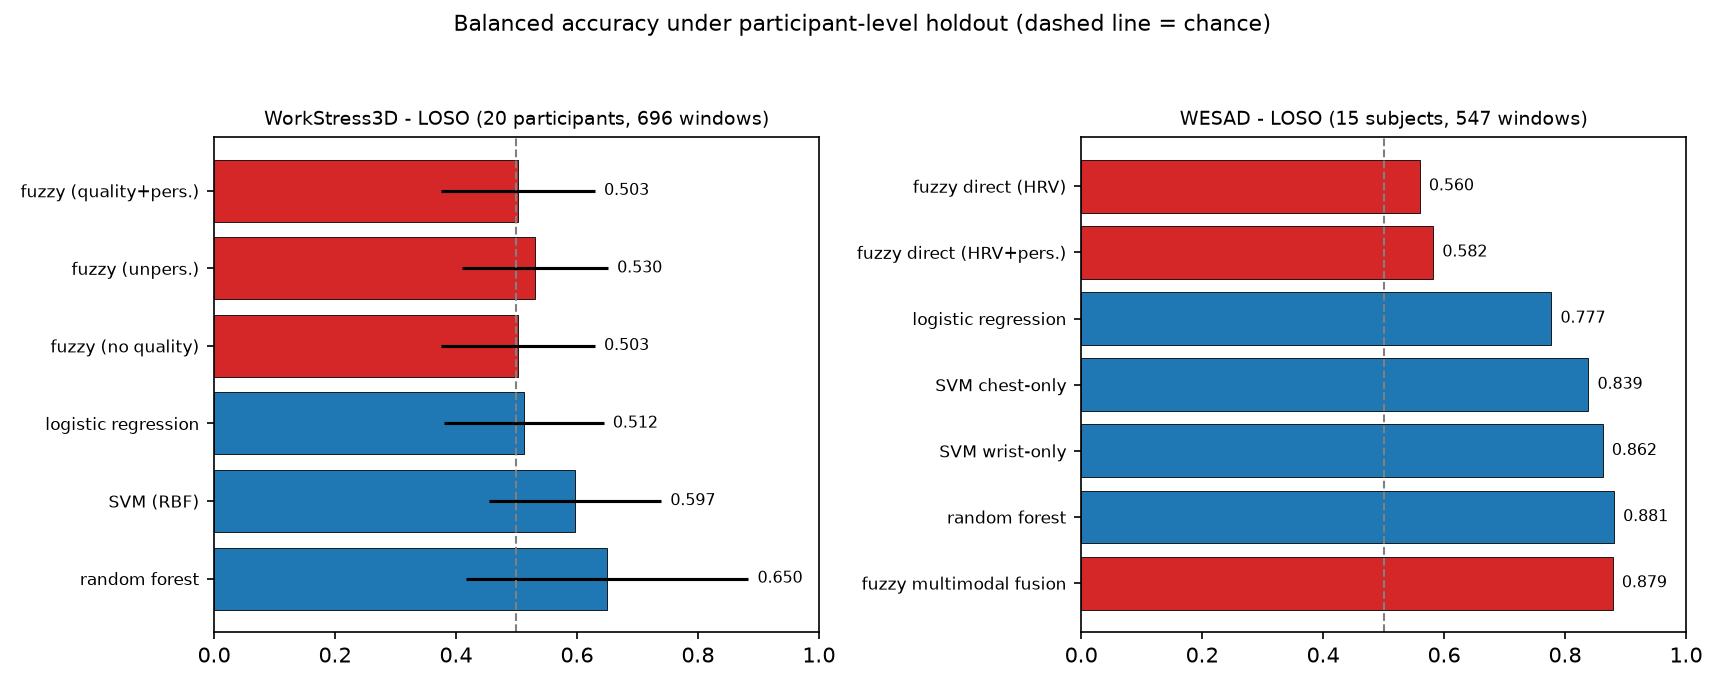
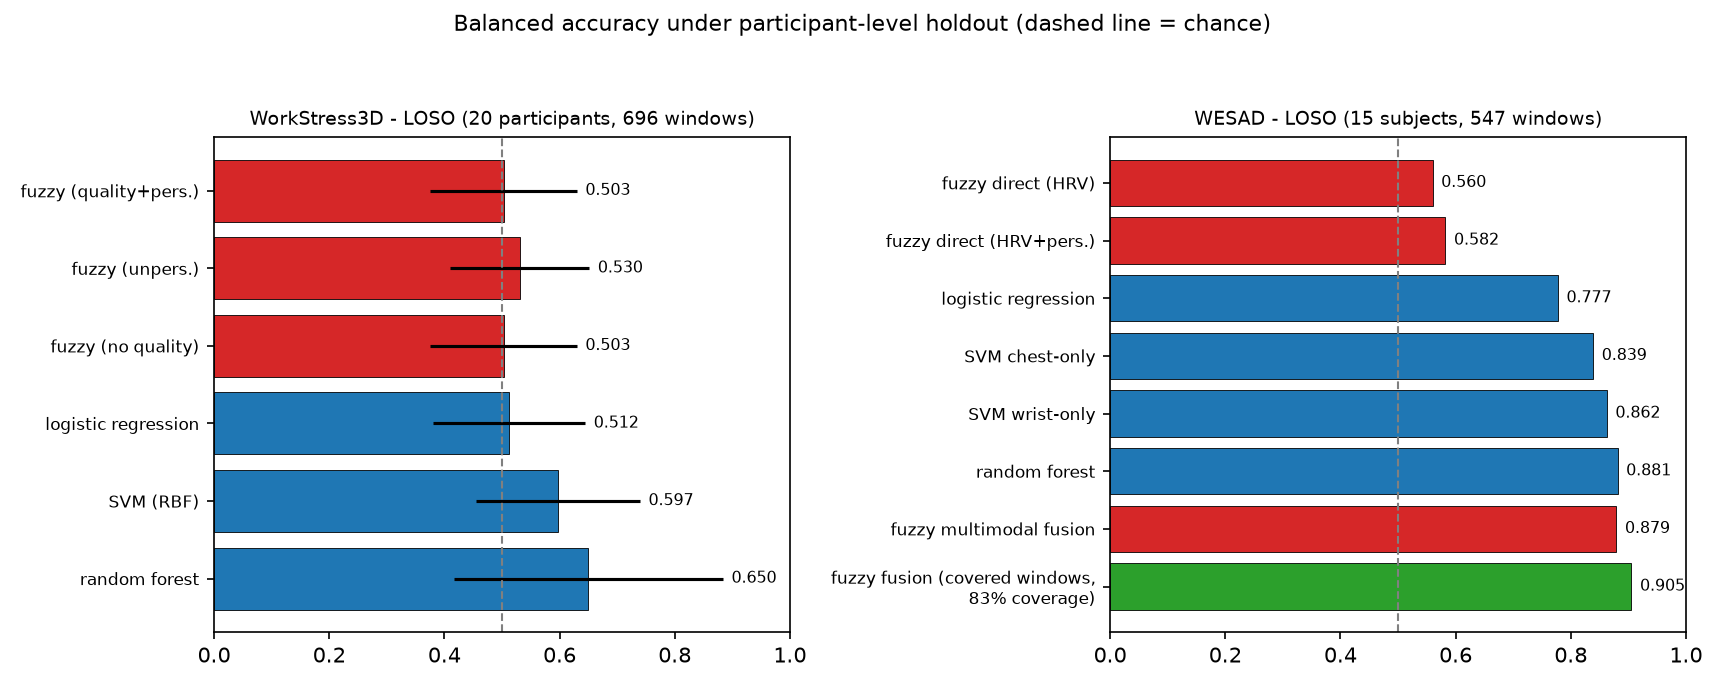
Update WESAD benchmark figure and tables: include covered-windows fusion result (0.905 BA, 0.941 accuracy at 83% coverage)

diff --git a/paper/make_figures.py b/paper/make_figures.py
@@ -244,6 +244,12 @@ def fig_benchmarks():
         vals.append(ov["balanced_accuracy"])
         errs.append(0)
         cols.append(C_FUZZY if m.startswith("fuzzy") else C_BASE)
+    covm = we["models"]["fuzzy_multimodal_fusion"].get("covered_only")
+    if covm:
+        names.append("fuzzy fusion (covered windows,\n83% coverage)")
+        vals.append(covm["balanced_accuracy"])
+        errs.append(0)
+        cols.append(C_OK)
     _bar_panel(axes[1], names, vals, None, cols,
                "WESAD - LOSO (15 subjects, 547 windows)")
 

diff --git a/README.md b/README.md
@@ -213,7 +213,7 @@ Binary task (stress vs non-stress), 547 windows, balanced accuracy:
 | SVM wrist-only / chest-only | 0.862 / 0.839 | 0.824 / 0.745 |
 | random forest | 0.881 | 0.848 |
 | **fuzzy multimodal fusion (Mamdani over calibrated wrist+chest scores)** | **0.879** | 0.818 |
-| fuzzy fusion, covered windows only (83% coverage) | **0.905** | 0.836 |
+| fuzzy fusion, covered windows only (83% coverage) | **0.905** (accuracy 0.941) | 0.836 |
 
 Reading: the interpretable fusion layer matches the best black-box baseline
 (0.879 vs 0.881) while adding abstention (conflict/quality rules flag 17% of

diff --git a/paper/paper.md b/paper/paper.md
@@ -274,7 +274,7 @@ participant identity, not stress.
 | SVM chest-only / wrist-only | 0.839 / 0.862 | 0.745 / 0.824 |
 | random forest | 0.881 | 0.848 |
 | **fuzzy multimodal fusion** | **0.879** | 0.818 |
-| **fuzzy fusion, covered windows (83.2 % coverage)** | **0.905** | 0.836 |
+| **fuzzy fusion, covered windows (83.2 % coverage)** | **0.905** (accuracy 0.941) | 0.836 |
 
 The interpretable fusion layer forfeits 0.002 balanced accuracy against the
 best black-box model while adding per-window explanations and a
